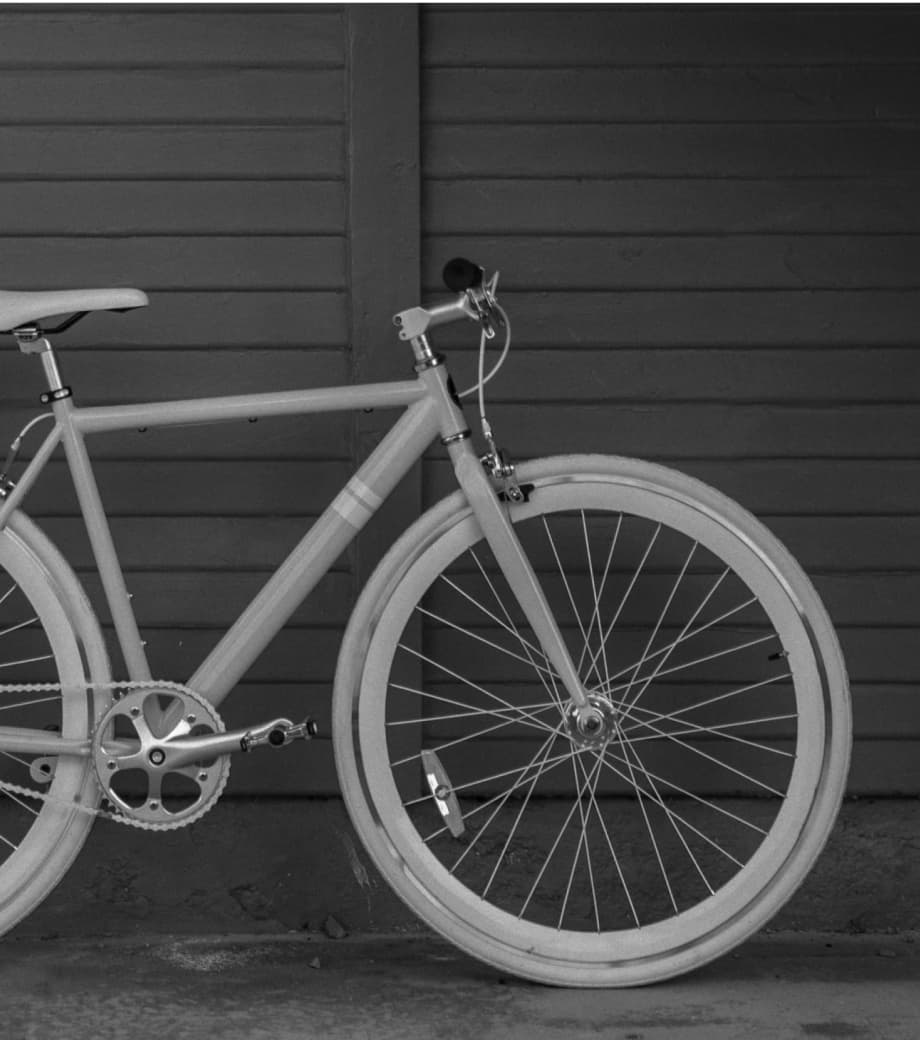
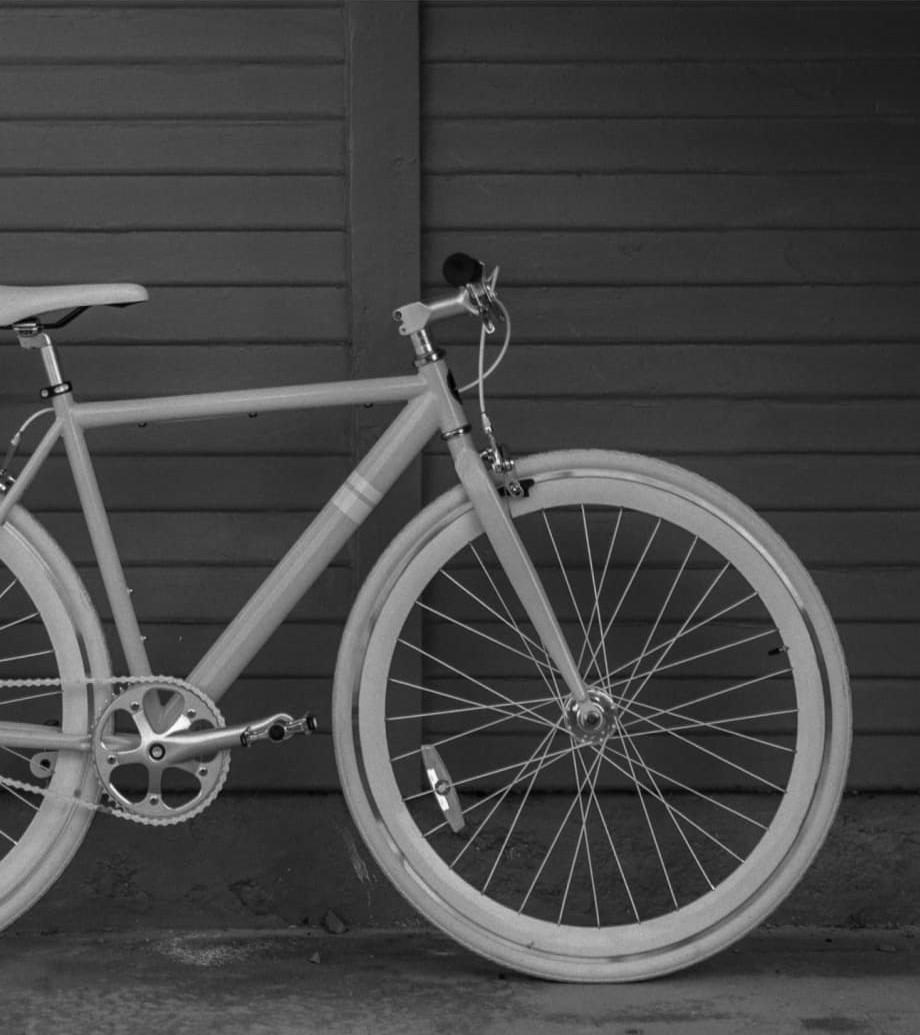
adicionando responsividade e fontes

diff --git a/css/style.css b/css/style.css
@@ -1,16 +1,28 @@
 body {
   margin: 0px;
   font-family: Arial, Helvetica, sans-serif;
+  padding-bottom: 600px;
+}
+
+h1,
+ul,
+p {
+  margin: 0px;
 }
 
 ul {
-  margin: 0px;
   padding: 0px;
   list-style: none;
 }
 
 a {
   text-decoration: none;
+  color: inherit;
+}
+
+img {
+  max-width: 100%;
+  display: block;
 }
 
 .header-bg {
@@ -42,6 +54,8 @@ a {
   padding: 16px 0px;
   font-size: 18px;
   position: relative;
+  font-family: "Poppins";
+  font-weight: 400;
 }
 
 .header-menu a:after {
@@ -86,5 +100,116 @@ a {
   .header-menu a {
     padding: 8px 12px;
     font-size: 14px;
+  }
+}
+
+.introducao-bg {
+  background: #000000;
+  color: #ffffff;
+  box-shadow: inset 0 -120px #ffffff;
+}
+
+.introducao {
+  display: grid;
+  grid-template-columns: 1fr 1fr;
+  gap: 0px 40px;
+  max-width: 1200px;
+  box-sizing: border-box;
+  padding-left: 20px;
+  padding-right: 20px;
+  margin-left: auto;
+  margin-right: auto;
+}
+
+.introducao-conteudo {
+  align-self: end;
+  padding-bottom: 200px;
+}
+
+.introducao img {
+  height: 100%;
+  object-fit: cover;
+  border-radius: 4px;
+}
+
+.introducao h1 {
+  margin-bottom: 32px;
+  font-size: 64px;
+  line-height: 1.125;
+  font-family: "Poppins";
+  font-weight: 600;
+}
+
+.introducao h1 span {
+  color: #ffbb00;
+}
+
+.introducao p {
+  margin-bottom: 20px;
+  font-size: 24px;
+  line-height: 1.5;
+  color: #b2b2b2;
+  font-family: "Roboto";
+  font-weight: 400;
+}
+
+.introducao a {
+  display: inline-block;
+  padding: 16px 32px;
+  background: linear-gradient(#ffbf00, #f2a50c);
+  border-radius: 4px;
+  box-shadow: 0 1px 2px rgba(0, 0, 0, 0.1);
+  text-transform: uppercase;
+  color: #332200;
+  font-size: 18px;
+  line-height: 1.33;
+  font-family: "Poppins";
+  font-weight: 600;
+}
+
+.introducao a:hover {
+  background: linear-gradient(#ffb60d, #e59317);
+}
+
+@media (max-width: 600px) {
+  .introducao a {
+    padding: 12px 16px;
+    font-size: 16px;
+  }
+}
+
+@media (max-width: 1200px) {
+  .introducao h1 {
+    font-size: 48px;
+  }
+
+  .introducao p {
+    font-size: 18px;
+  }
+}
+
+@media (max-width: 800px) {
+  .introducao-bg {
+    background-color: #111111;
+    padding-top: 40px;
+    box-shadow: inset 0 -60px #ffffff;
+  }
+  .introducao {
+    grid-template-columns: 1fr;
+    gap: 32px;
+  }
+
+  .introducao-conteudo {
+    padding-bottom: 0px;
+  }
+
+  .introducao h1 {
+    font-size: 32px;
+    margin-bottom: 16px;
+  }
+
+  .introducao img {
+    height: 300px;
+    width: 100%;
   }
 }

diff --git a/index.html b/index.html
@@ -7,6 +7,9 @@
   <title>Bikcraft - Bicicletas Elétricas</title>
   <meta name="description" content="Bicicletas elétricas de alta precisão e qualidade, feitas sob medida para você. Explore o mundo na sua velocidade com a Bikcraft.">
   <link rel="stylesheet" href="./css/style.css">
+  <link rel="preconnect" href="https://fonts.googleapis.com">
+  <link rel="preconnect" href="https://fonts.gstatic.com" crossorigin>
+  <link href="https://fonts.googleapis.com/css2?family=Poppins:wght@400;600&family=Roboto:wght@400;500&display=swap" rel="stylesheet">
 </head>
 
 <body>
@@ -24,6 +27,20 @@
       </nav>
     </div>
   </header>
+
+  <main class="introducao-bg">
+    <div class="introducao">
+      <div class="introducao-conteudo">
+        <h1>Bicicletas feitas sob medida<span>.</span></h1>
+        <p>Bicicletas elétricas de alta precisão e qualidade, feitas sob medida para você. Explore o mundo na sua velocidade com a Bikcraft.</p>
+        <a href="./bicicletas.html">Escolha a sua</a>
+      </div>
+      <div>
+        <img src="./img/fotos/introducao.jpg" alt="Bicicleta elétrica preta.">
+      </div>
+    </div>
+  </main>
+
 </body>
 
 </html>
